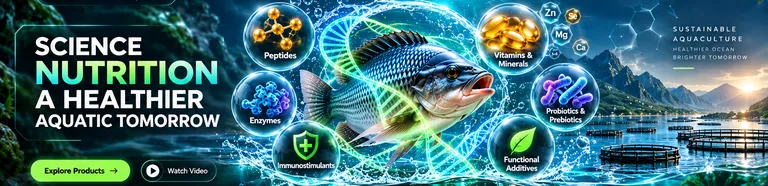
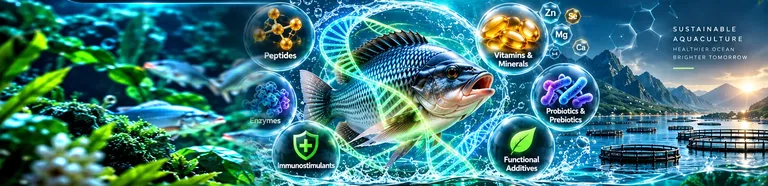
Remove the printed text from the left side of the hero slides
Slides 1, 2, 3, 5 and 6 had headlines, paragraphs and fake buttons
(Explore Products, Watch Video) printed into the left of the image.
Replace that area with the clean underwater scenery from the text-free
slides, blended into each picture, so only the fish, orbs and right-hand
artwork remain. Slide URLs are versioned so phones fetch the new images.

Claude-Session: https://claude.ai/code/session_017U9PnqheBCCHEa682E1Bdi

diff --git a/index.html b/index.html
@@ -71,25 +71,25 @@
     <div class="slider" id="heroSlider" role="region" aria-roledescription="carousel" aria-label="Vela Peptide highlights" tabindex="0">
       <div class="slides">
         <a class="slide is-active" href="#products" aria-label="Slide 1 of 7: view products">
-          <img src="public/slide-1.webp" srcset="public/slide-1-768.webp 768w, public/slide-1.webp 1536w" sizes="100vw" width="1536" height="372" fetchpriority="high" alt="Advanced nutrition for healthier and faster growing fish: tilapia and shrimp in glowing water with faster growth, stronger immunity and better feed conversion" />
+          <img src="public/slide-1.webp?v=2" srcset="public/slide-1-768.webp?v=2 768w, public/slide-1.webp?v=2 1536w" sizes="100vw" width="1536" height="372" fetchpriority="high" alt="Advanced nutrition for healthier and faster growing fish: tilapia and shrimp in glowing water with faster growth, stronger immunity and better feed conversion" />
         </a>
         <a class="slide" href="#products" aria-label="Slide 2 of 7: view products" tabindex="-1" aria-hidden="true">
-          <img src="public/slide-2.webp" srcset="public/slide-2-768.webp 768w, public/slide-2.webp 1536w" sizes="100vw" width="1536" height="372" loading="lazy" decoding="async" alt="Nutrition that creates stronger generations: fish and shrimp in green light with better growth, stronger immunity, higher feed conversion and healthier aquatic life" />
+          <img src="public/slide-2.webp?v=2" srcset="public/slide-2-768.webp?v=2 768w, public/slide-2.webp?v=2 1536w" sizes="100vw" width="1536" height="372" loading="lazy" decoding="async" alt="Nutrition that creates stronger generations: fish and shrimp in green light with better growth, stronger immunity, higher feed conversion and healthier aquatic life" />
         </a>
         <a class="slide" href="#products" aria-label="Slide 3 of 7: view products" tabindex="-1" aria-hidden="true">
-          <img src="public/slide-3.webp" srcset="public/slide-3-768.webp 768w, public/slide-3.webp 1536w" sizes="100vw" width="1536" height="372" loading="lazy" decoding="async" alt="Science nutrition for a healthier aquatic tomorrow: fish on a glowing platform surrounded by peptides, enzymes, probiotics, vitamins and immunostimulants" />
+          <img src="public/slide-3.webp?v=2" srcset="public/slide-3-768.webp?v=2 768w, public/slide-3.webp?v=2 1536w" sizes="100vw" width="1536" height="372" loading="lazy" decoding="async" alt="Science nutrition for a healthier aquatic tomorrow: fish on a glowing platform surrounded by peptides, enzymes, probiotics, vitamins and immunostimulants" />
         </a>
         <a class="slide" href="#products" aria-label="Slide 4 of 7: view products" tabindex="-1" aria-hidden="true">
-          <img src="public/slide-4.webp" srcset="public/slide-4-768.webp 768w, public/slide-4.webp 1536w" sizes="100vw" width="1536" height="372" loading="lazy" decoding="async" alt="Tilapia inside a glowing green DNA helix surrounded by peptides, enzymes, immunostimulants, vitamins and minerals, probiotics and functional additives" />
+          <img src="public/slide-4.webp?v=2" srcset="public/slide-4-768.webp?v=2 768w, public/slide-4.webp?v=2 1536w" sizes="100vw" width="1536" height="372" loading="lazy" decoding="async" alt="Tilapia inside a glowing green DNA helix surrounded by peptides, enzymes, immunostimulants, vitamins and minerals, probiotics and functional additives" />
         </a>
         <a class="slide" href="#products" aria-label="Slide 5 of 7: view products" tabindex="-1" aria-hidden="true">
-          <img src="public/slide-5.webp" srcset="public/slide-5-768.webp 768w, public/slide-5.webp 1536w" sizes="100vw" width="1536" height="372" loading="lazy" decoding="async" alt="Science nutrition for a healthier aquatic tomorrow: fish in a DNA helix with product orbs and fish farm cages at sunrise" />
+          <img src="public/slide-5.webp?v=2" srcset="public/slide-5-768.webp?v=2 768w, public/slide-5.webp?v=2 1536w" sizes="100vw" width="1536" height="372" loading="lazy" decoding="async" alt="Science nutrition for a healthier aquatic tomorrow: fish in a DNA helix with product orbs and fish farm cages at sunrise" />
         </a>
         <a class="slide" href="#products" aria-label="Slide 6 of 7: view products" tabindex="-1" aria-hidden="true">
-          <img src="public/slide-6.webp" srcset="public/slide-6-768.webp 768w, public/slide-6.webp 1536w" sizes="100vw" width="1536" height="372" loading="lazy" decoding="async" alt="Fish in a glowing DNA helix with peptides, enzymes, vitamins and minerals, probiotics and functional additives beside a globe for sustainable aquaculture" />
+          <img src="public/slide-6.webp?v=2" srcset="public/slide-6-768.webp?v=2 768w, public/slide-6.webp?v=2 1536w" sizes="100vw" width="1536" height="372" loading="lazy" decoding="async" alt="Fish in a glowing DNA helix with peptides, enzymes, vitamins and minerals, probiotics and functional additives beside a globe for sustainable aquaculture" />
         </a>
         <a class="slide" href="#products" aria-label="Slide 7 of 7: view products" tabindex="-1" aria-hidden="true">
-          <img src="public/slide-7.webp" srcset="public/slide-7-768.webp 768w, public/slide-7.webp 1536w" sizes="100vw" width="1536" height="372" loading="lazy" decoding="async" alt="Fish and shrimp rising from a glowing platform inside a DNA helix, with product orbs and a globe for sustainable aquaculture" />
+          <img src="public/slide-7.webp?v=2" srcset="public/slide-7-768.webp?v=2 768w, public/slide-7.webp?v=2 1536w" sizes="100vw" width="1536" height="372" loading="lazy" decoding="async" alt="Fish and shrimp rising from a glowing platform inside a DNA helix, with product orbs and a globe for sustainable aquaculture" />
         </a>
       </div>
       <div class="sl-grid" aria-hidden="true"></div>
